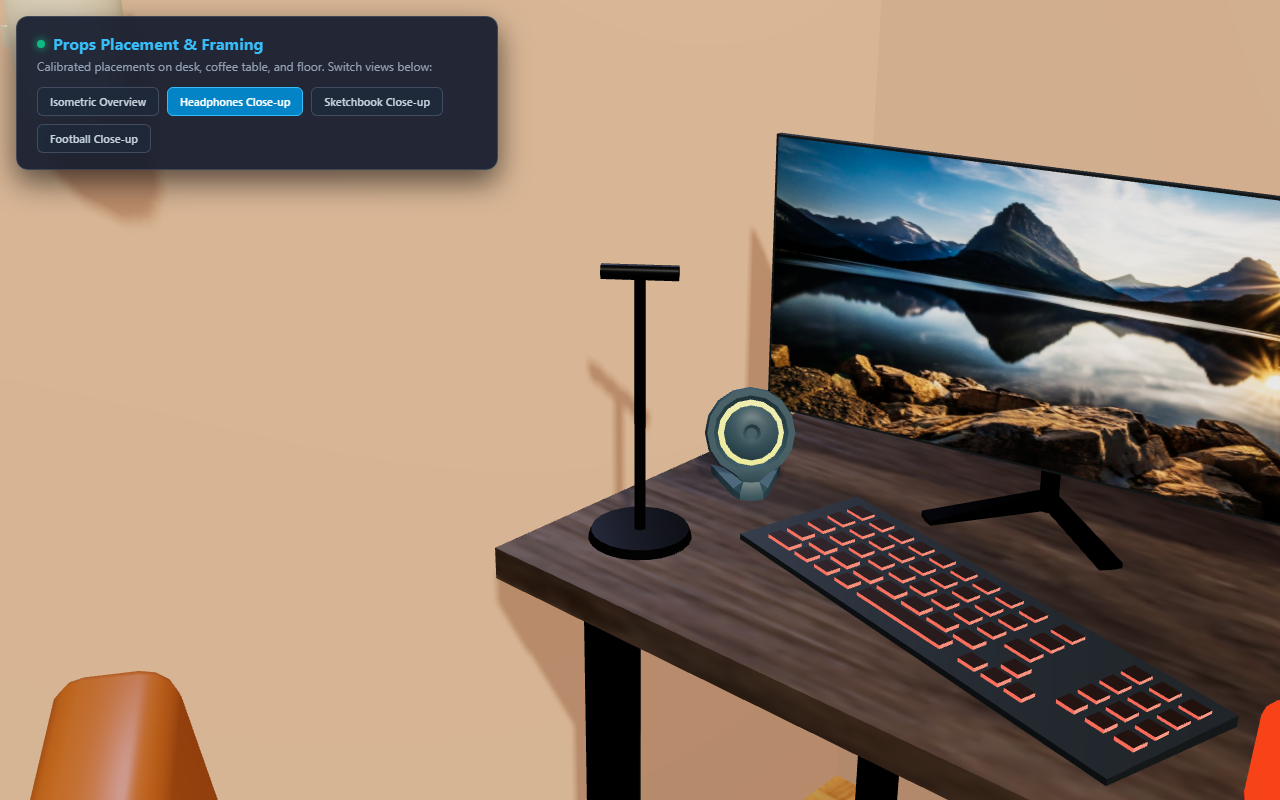
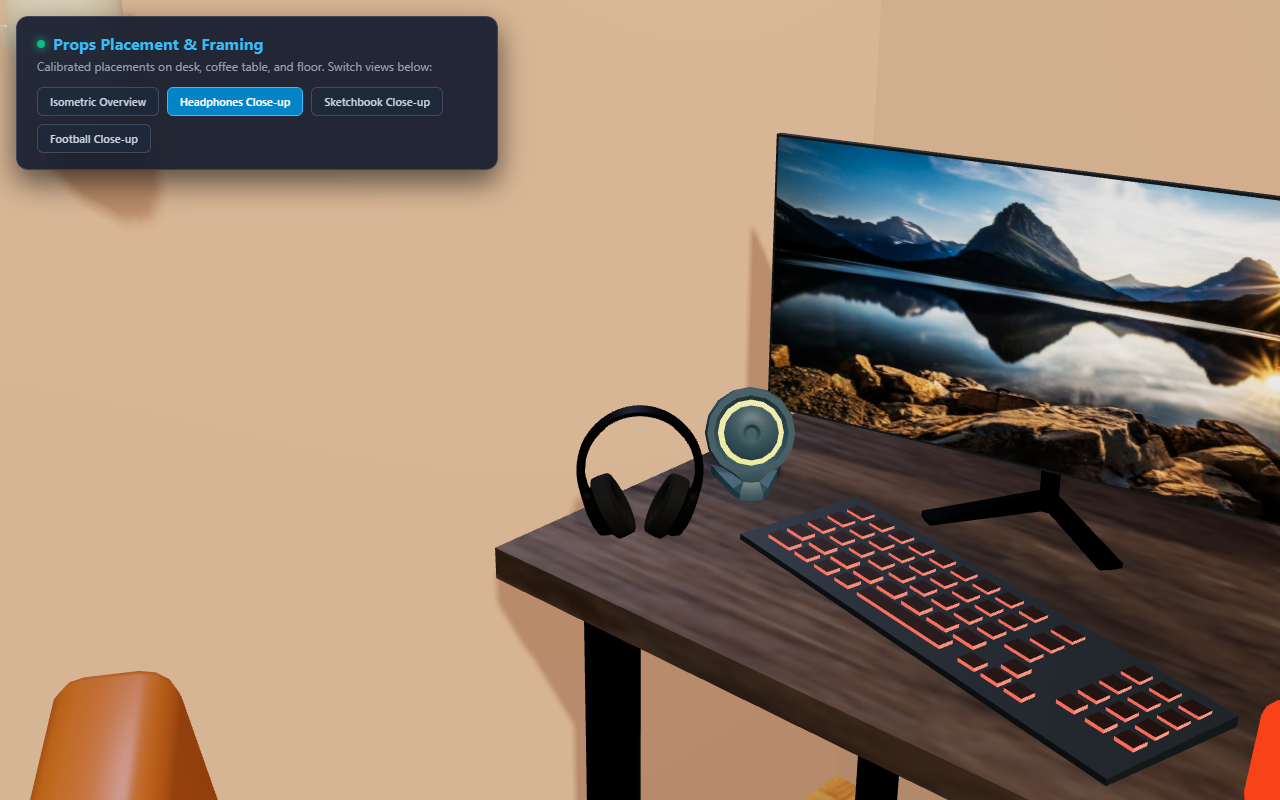
fix: recalibrate headphones placement on desk and remove jersey

Changed region(s): [[0.4375, 0.3125, 0.5625, 0.7188]]

diff --git a/src/scene/Room.jsx b/src/scene/Room.jsx
@@ -5,7 +5,6 @@
 // - public/models/props/headphones.glb (JBL headphones on custom stand)
 // - public/models/props/sketchbook.glb (open sketchbook on coffee table)
 // - public/models/props/football.glb (cleats on floor near door + patterned football sphere)
-// - public/models/props/jersey.glb (framed jersey on wall)
 
 import React, { useEffect, useMemo } from 'react';
 import * as THREE from 'three';
@@ -19,19 +18,11 @@ import { useGLTF } from '@react-three/drei';
 export const PROP_PLACEMENTS = {
   headphones: {
     // Left end of desk: x=-2.60, z=-1.90, desk top y=1.24
-    // Sits in front of left monitor, left of keyboard (x=-2.47), in front of speaker (z=-2.18)
+    // Sits in front of left monitor, left of keyboard (x=-2.47), clear of speaker (z=-2.18)
     position: [-2.60, 1.24, -1.90],
-    rotationY: 0.65, // angled towards +x, +z to face isometric camera
-    scale: 0.046,    // total height ~0.47 including stand (target ~0.5, footprint <= 0.28)
-    stand: {
-      baseRadius: 0.08,
-      baseHeight: 0.015,
-      poleRadius: 0.009,
-      poleHeight: 0.44,
-      color: '#27272a',
-      metalness: 0.8,
-      roughness: 0.25,
-    },
+    rotationY: 0.75, // angled towards camera (+x, +z)
+    scale: 1.20,     // realistic size: ~0.20m wide x ~0.23m high, sits flush on desk top
+    modelOffset: [0, 0, 0],
   },
   sketchbook: {
     // Coffee table center: x=0.60, z=1.30, table top y=0.56 (table spans x: 0.26..1.04, z: 0.89..1.87)
@@ -54,12 +45,6 @@ export const PROP_PLACEMENTS = {
       radius: 0.175, // 0.35m diameter
     },
   },
-  jersey: {
-    // Preserved wall mount: back wall at [2.40, 2.40, -2.90]
-    position: [2.40, 2.40, -2.90],
-    rotationY: 0,
-    scale: 0.85,
-  },
 };
 
 export default function Room({ onSelectObject, hoveredObject, onHoverObject }) {
@@ -68,13 +53,11 @@ export default function Room({ onSelectObject, hoveredObject, onHoverObject }) {
   const { scene: footballRaw } = useGLTF('/models/props/football.glb');
   const { scene: headphonesRaw } = useGLTF('/models/props/headphones.glb');
   const { scene: sketchbookRaw } = useGLTF('/models/props/sketchbook.glb');
-  const { scene: jerseyRaw } = useGLTF('/models/props/jersey.glb');
 
   // Clone scenes so each instance retains independent transforms and state
   const footballScene = useMemo(() => footballRaw.clone(true), [footballRaw]);
   const headphonesScene = useMemo(() => headphonesRaw.clone(true), [headphonesRaw]);
   const sketchbookScene = useMemo(() => sketchbookRaw.clone(true), [sketchbookRaw]);
-  const jerseyScene = useMemo(() => jerseyRaw.clone(true), [jerseyRaw]);
 
   // Procedural classic soccer ball texture
   const footballTexture = useMemo(() => {
@@ -119,7 +102,7 @@ export default function Room({ onSelectObject, hoveredObject, onHoverObject }) {
 
   // Enable shadow casting and receiving across all meshes in the scene
   useEffect(() => {
-    [roomScene, footballScene, headphonesScene, sketchbookScene, jerseyScene].forEach((scene) => {
+    [roomScene, footballScene, headphonesScene, sketchbookScene].forEach((scene) => {
       scene?.traverse((child) => {
         if (child.isMesh) {
           child.castShadow = true;
@@ -127,7 +110,7 @@ export default function Room({ onSelectObject, hoveredObject, onHoverObject }) {
         }
       });
     });
-  }, [roomScene, footballScene, headphonesScene, sketchbookScene, jerseyScene]);
+  }, [roomScene, footballScene, headphonesScene, sketchbookScene]);
 
   // Helper to attach pointer cursor and click handling to interactive prop targets
   const getInteractiveProps = (id) => ({
@@ -191,77 +174,13 @@ export default function Room({ onSelectObject, hoveredObject, onHoverObject }) {
         onClick={handleRoomClick}
       />
 
-      {/* 2. HEADPHONES (on stand at left end of desk) */}
+      {/* 2. HEADPHONES (on desk top at left end of desk) */}
       <group
         name="Headphones"
         position={PROP_PLACEMENTS.headphones.position}
         rotation={[0, PROP_PLACEMENTS.headphones.rotationY, 0]}
         {...getInteractiveProps('headphones')}
       >
-        {/* Minimalist Stand Base */}
-        <mesh
-          position={[0, PROP_PLACEMENTS.headphones.stand.baseHeight / 2, 0]}
-          castShadow
-          receiveShadow
-        >
-          <cylinderGeometry
-            args={[
-              PROP_PLACEMENTS.headphones.stand.baseRadius,
-              PROP_PLACEMENTS.headphones.stand.baseRadius * 1.05,
-              PROP_PLACEMENTS.headphones.stand.baseHeight,
-              24,
-            ]}
-          />
-          <meshStandardMaterial
-            color={PROP_PLACEMENTS.headphones.stand.color}
-            metalness={PROP_PLACEMENTS.headphones.stand.metalness}
-            roughness={PROP_PLACEMENTS.headphones.stand.roughness}
-          />
-        </mesh>
-
-        {/* Stand Vertical Stem */}
-        <mesh
-          position={[
-            0,
-            PROP_PLACEMENTS.headphones.stand.poleHeight / 2 + PROP_PLACEMENTS.headphones.stand.baseHeight,
-            0,
-          ]}
-          castShadow
-        >
-          <cylinderGeometry
-            args={[
-              PROP_PLACEMENTS.headphones.stand.poleRadius,
-              PROP_PLACEMENTS.headphones.stand.poleRadius,
-              PROP_PLACEMENTS.headphones.stand.poleHeight,
-              16,
-            ]}
-          />
-          <meshStandardMaterial
-            color={PROP_PLACEMENTS.headphones.stand.color}
-            metalness={PROP_PLACEMENTS.headphones.stand.metalness}
-            roughness={PROP_PLACEMENTS.headphones.stand.roughness}
-          />
-        </mesh>
-
-        {/* Stand Top Cradle Crossbar */}
-        <mesh
-          position={[
-            0,
-            PROP_PLACEMENTS.headphones.stand.poleHeight + PROP_PLACEMENTS.headphones.stand.baseHeight,
-            0,
-          ]}
-          rotation={[0, 0, Math.PI / 2]}
-          castShadow
-        >
-          <cylinderGeometry args={[0.012, 0.012, 0.12, 16]} />
-          <meshStandardMaterial
-            color={PROP_PLACEMENTS.headphones.stand.color}
-            metalness={PROP_PLACEMENTS.headphones.stand.metalness}
-            roughness={PROP_PLACEMENTS.headphones.stand.roughness}
-          />
-        </mesh>
-
-        {/* JBL Headphones Model hanging on stand */}
         <primitive
           object={headphonesScene}
           scale={[
@@ -269,7 +188,7 @@ export default function Room({ onSelectObject, hoveredObject, onHoverObject }) {
             PROP_PLACEMENTS.headphones.scale,
             PROP_PLACEMENTS.headphones.scale,
           ]}
-          position={[0, 0.27, 0]}
+          position={PROP_PLACEMENTS.headphones.modelOffset}
         />
       </group>
 
@@ -322,23 +241,6 @@ export default function Room({ onSelectObject, hoveredObject, onHoverObject }) {
           />
         </mesh>
       </group>
-
-      {/* 5. JERSEY (Framed wall kit) */}
-      <group
-        name="Jersey"
-        position={PROP_PLACEMENTS.jersey.position}
-        rotation={[0, PROP_PLACEMENTS.jersey.rotationY, 0]}
-        {...getInteractiveProps('jersey')}
-      >
-        <primitive
-          object={jerseyScene}
-          scale={[
-            PROP_PLACEMENTS.jersey.scale,
-            PROP_PLACEMENTS.jersey.scale,
-            PROP_PLACEMENTS.jersey.scale,
-          ]}
-        />
-      </group>
     </group>
   );
 }
@@ -348,4 +250,3 @@ useGLTF.preload('/models/room.glb');
 useGLTF.preload('/models/props/football.glb');
 useGLTF.preload('/models/props/headphones.glb');
 useGLTF.preload('/models/props/sketchbook.glb');
-useGLTF.preload('/models/props/jersey.glb');

diff --git a/preview.html b/preview.html
@@ -218,37 +218,16 @@
       checkAllLoaded();
     });
 
-    // 2. Headphones on Stand
+    // 2. Headphones on Desk Top
     loader.load('/models/props/headphones.glb', (gltf) => {
       const group = new THREE.Group();
       group.name = 'Headphones';
       group.position.set(-2.60, 1.24, -1.90);
-      group.rotation.set(0, 0.65, 0);
-
-      const baseGeo = new THREE.CylinderGeometry(0.08, 0.085, 0.015, 24);
-      const standMat = new THREE.MeshStandardMaterial({ color: '#27272a', metalness: 0.8, roughness: 0.25 });
-      const baseMesh = new THREE.Mesh(baseGeo, standMat);
-      baseMesh.position.set(0, 0.0075, 0);
-      baseMesh.castShadow = true;
-      baseMesh.receiveShadow = true;
-      group.add(baseMesh);
-
-      const stemGeo = new THREE.CylinderGeometry(0.009, 0.009, 0.44, 16);
-      const stemMesh = new THREE.Mesh(stemGeo, standMat);
-      stemMesh.position.set(0, 0.23, 0);
-      stemMesh.castShadow = true;
-      group.add(stemMesh);
-
-      const cradleGeo = new THREE.CylinderGeometry(0.012, 0.012, 0.12, 16);
-      const cradleMesh = new THREE.Mesh(cradleGeo, standMat);
-      cradleMesh.rotation.set(0, 0, Math.PI / 2);
-      cradleMesh.position.set(0, 0.45, 0);
-      cradleMesh.castShadow = true;
-      group.add(cradleMesh);
+      group.rotation.set(0, 0.75, 0);
 
       const hp = gltf.scene;
-      hp.scale.set(0.046, 0.046, 0.046);
-      hp.position.set(0, 0.27, 0);
+      hp.scale.set(1.20, 1.20, 1.20);
+      hp.position.set(0, 0, 0);
       setupShadows(hp);
       group.add(hp);
 
